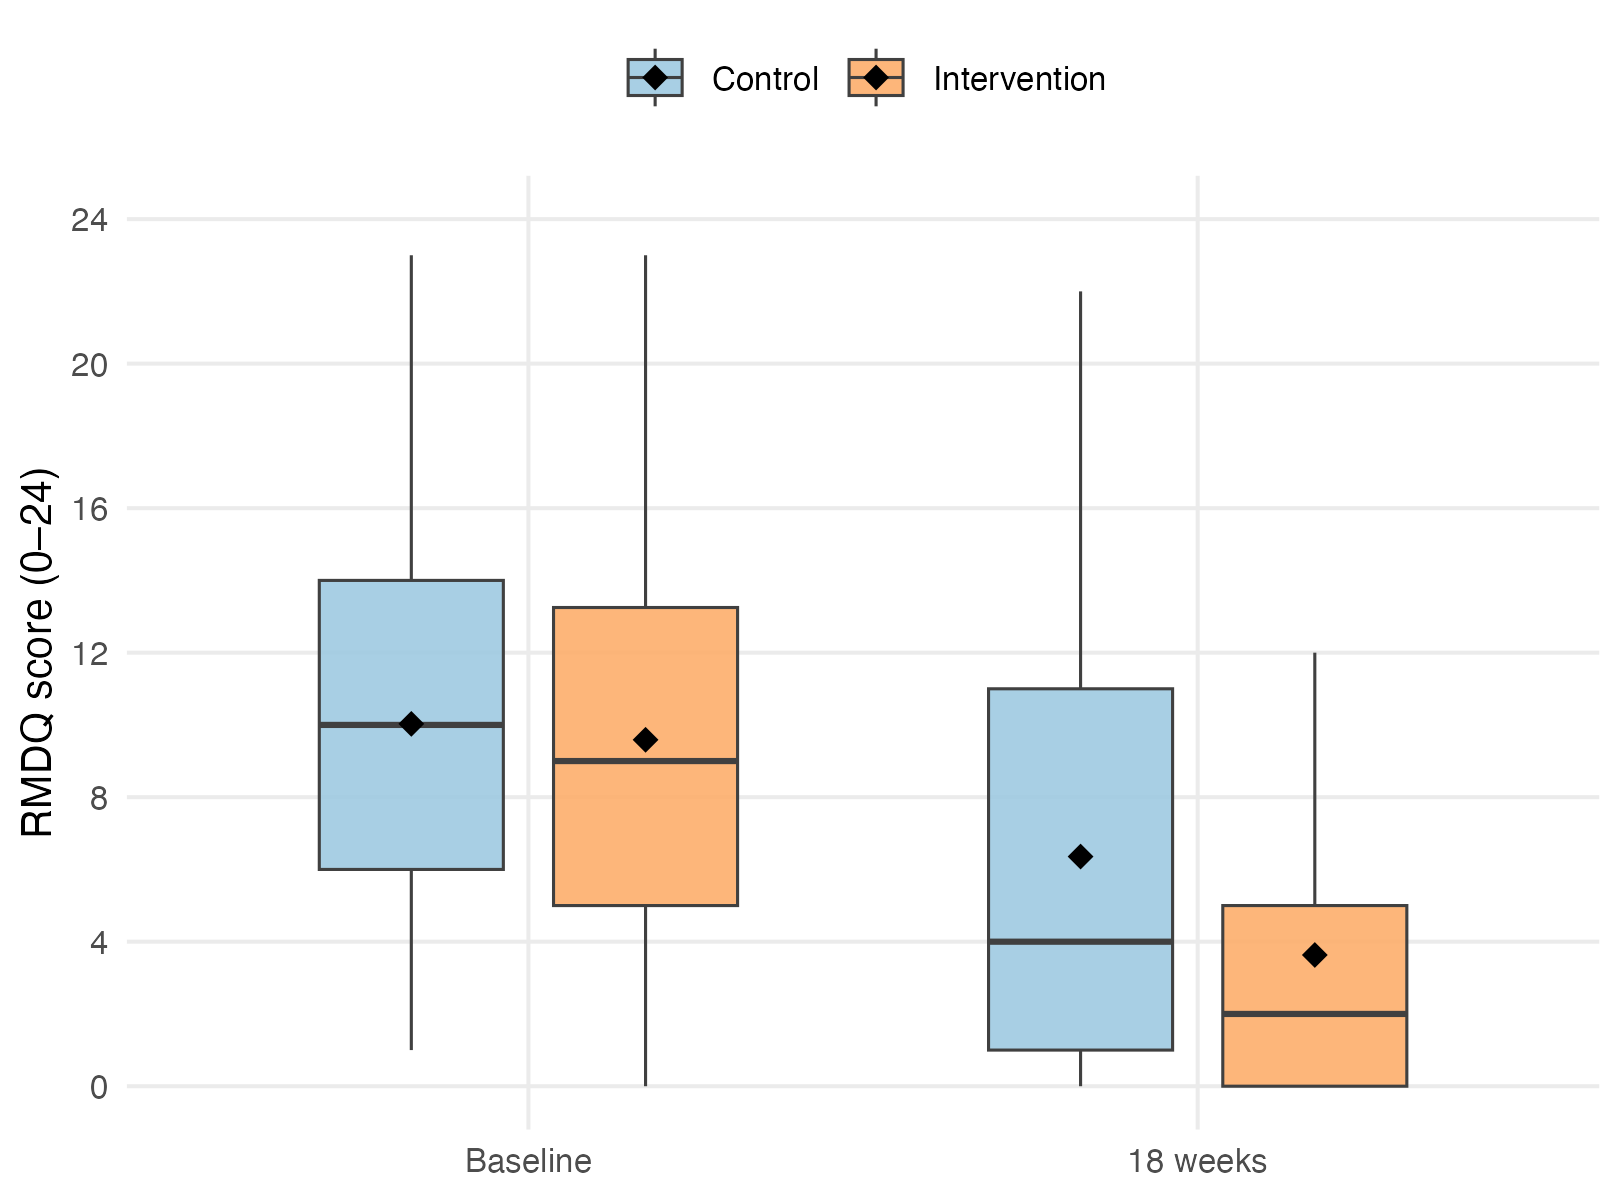
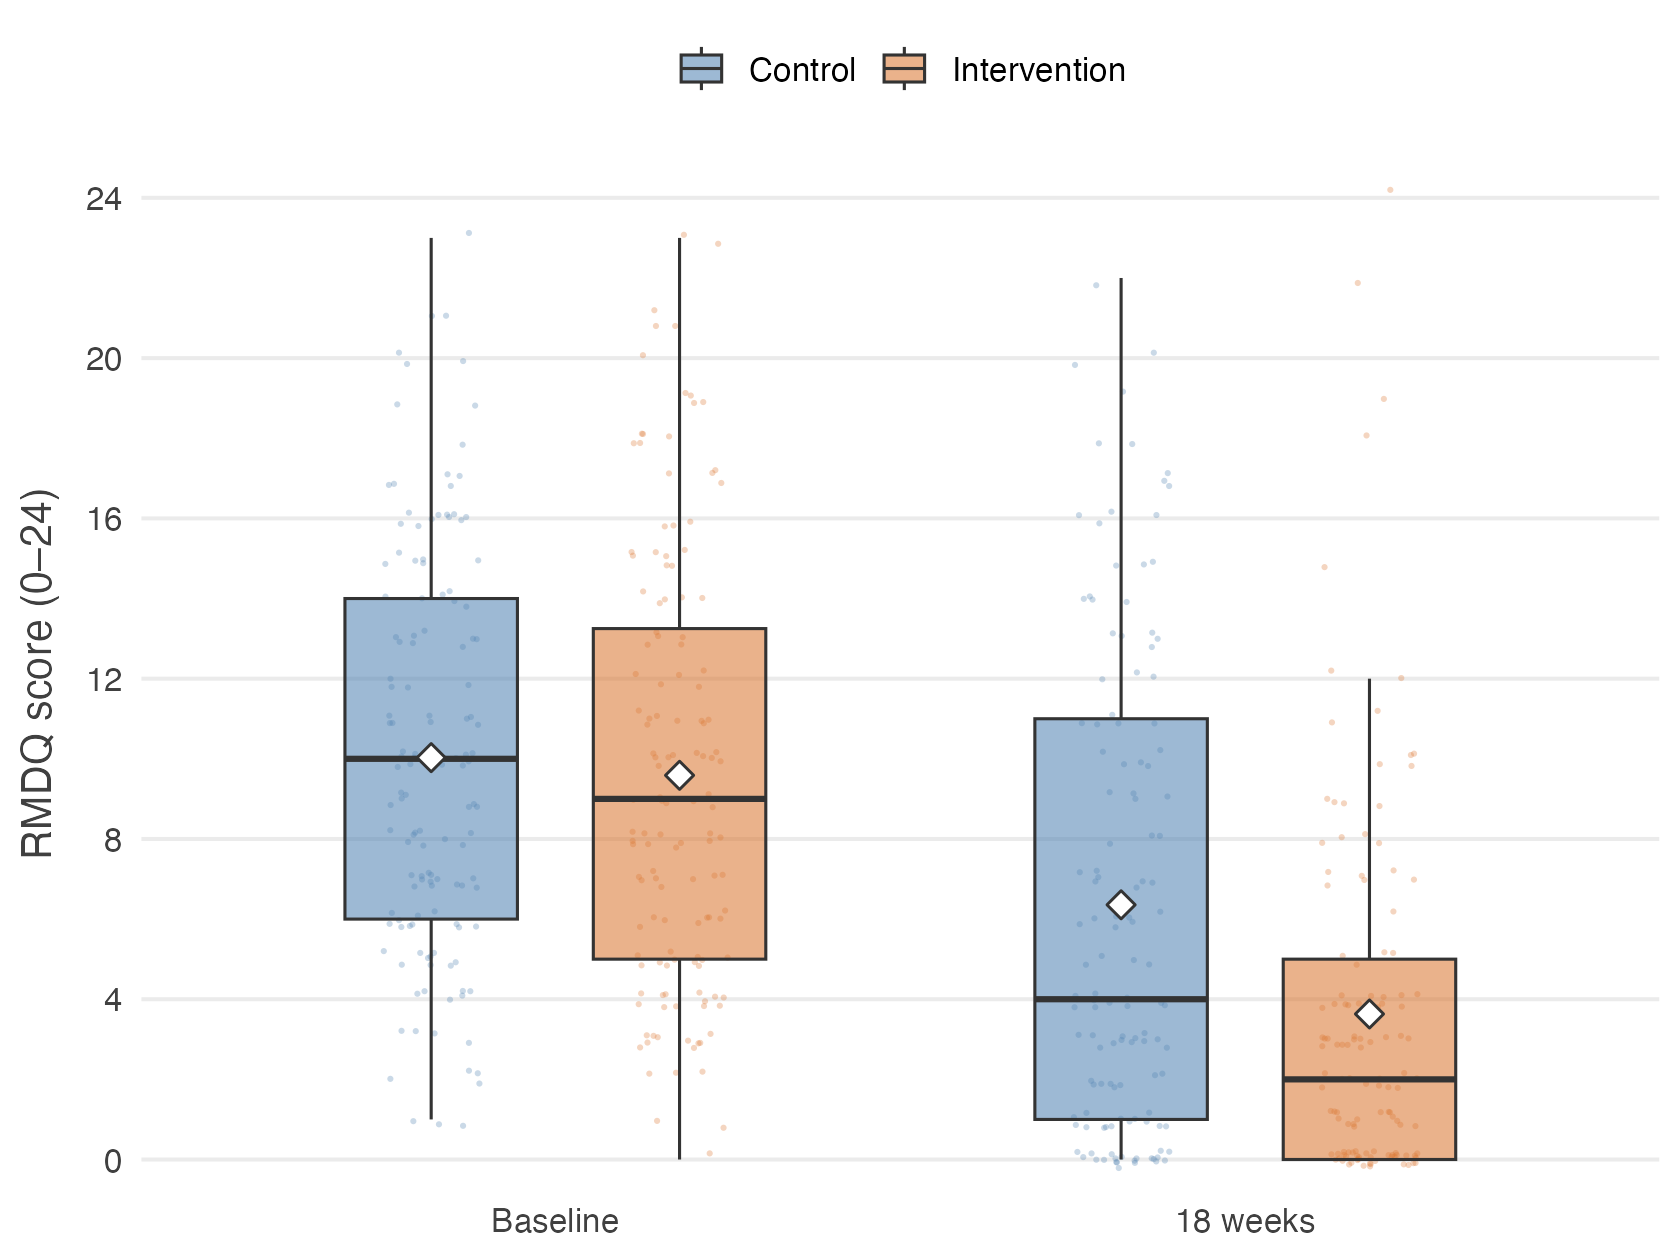
Show the individual Australian RMDQ scores behind the boxplots

diff --git a/paper.tex b/paper.tex
@@ -821,8 +821,9 @@ place of the informative one.
 \includegraphics[width=0.62\textwidth]{figures/aus_rmdq_box_sap.png}
 \caption{RMDQ in the Australian trial \citep{bagg2022} at baseline and 18
 weeks, by arm. Boxes give the interquartile range, whiskers extend to the
-most extreme value within 1.5 times that range, diamonds mark the means. The
-figure shows aggregate summaries of the individual participant data only.}
+most extreme value within 1.5 times that range, diamonds mark the means. Every
+participant is plotted as a point behind the boxes, scattered horizontally and
+vertically so that repeated integer scores remain visible.}
 \label{fig:ausbox}
 \end{figure}
 
